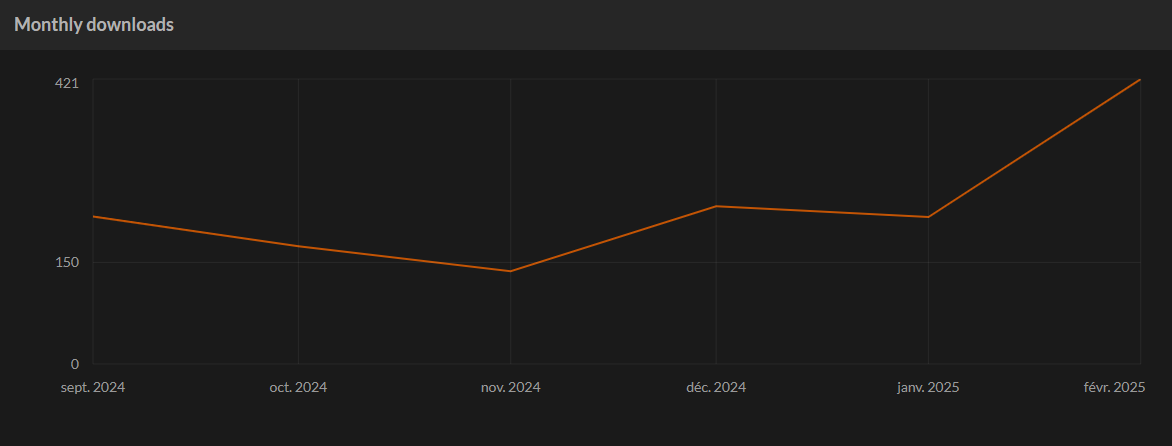
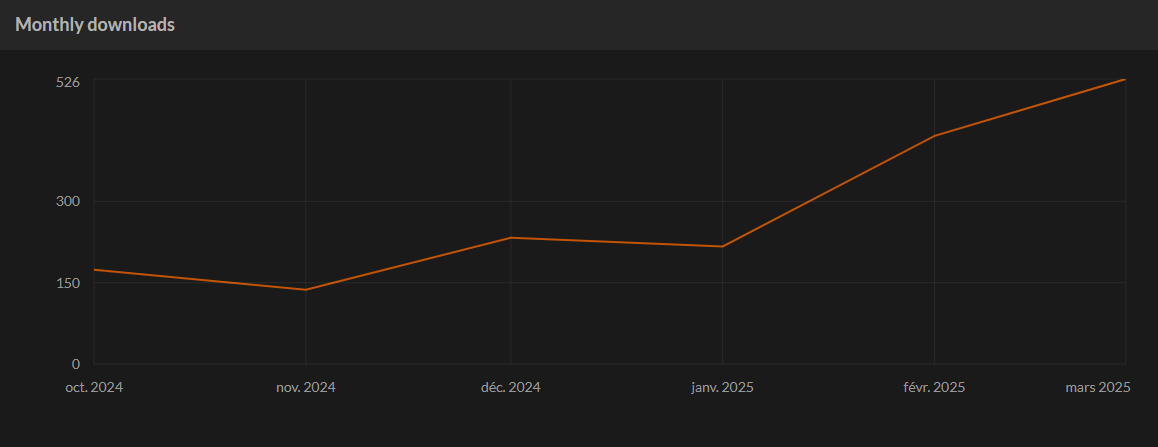
styles remaking and search fundation

diff --git a/general.css b/general.css
@@ -1,13 +1,102 @@
-nav a{margin: 6%; padding: 4px; font-size: 25px; color: rgb(220, 225, 245); 
-    border: solid black 3px; border-radius: 4px; text-decoration: none; font-weight: bold;}
-nav{text-align: center; background-image: linear-gradient(blue, darkblue); 
-    width: 93%; height: 60px; margin: 0%; left: 7%; top: 0%; position: fixed;
-    border: solid darkblue 10px; border-radius: 8px; z-index: 5;}
-nav a:hover{padding: 6px;}
+nav a {
+    font-size: 50px;
+    color: rgb(220, 225, 245);
+    text-transform: uppercase; /* Ensures text is in capital letters */
+    text-decoration: none;
+    font-weight: bold;
+    margin-top: auto;
+    display: inline-block;
+    position: relative;
+    margin-right: 5%;
+    transition-duration: 0.1s;
+}
+nav a:hover {
+    font-size: 60px;
+    transition-duration: 0.2s;
+}
+
+nav {
+    text-align: center;
+    background-image: linear-gradient(blue, darkblue);
+    width: 100%;
+    height: 80px;
+    top: 0%;
+    left: 0%;
+    position: fixed;
+    z-index: 5;
+}
+
+#logo {
+    position: fixed;
+    width: 5%;
+    height: auto;
+    z-index: 7;
+    margin-top: auto;
+}
+@media screen and (max-width: 865px) {
+    nav a {
+        display: block; /* Ensures links are stacked vertically */
+        margin: 10px auto; /* Centers the links and adds spacing */
+        padding: 4px;
+        font-size: 25px;
+        color: rgb(220, 225, 245);
+        border: solid black 3px;
+        border-radius: 4px;
+        text-decoration: none;
+        font-weight: bold;
+    }
+    nav {
+        text-align: center;
+        background-image: linear-gradient(blue, darkblue);
+        width: 100%;
+        height: auto; /* Adjust height to fit content */
+        margin: 0%;
+        left: 0; /* Align nav to the left */
+        top: 0%;
+        position: absolute;
+        border: solid darkblue 10px;
+        border-radius: 4px;
+        padding-bottom: 20px; /* Adds space at the bottom */
+        z-index: 20;
+   }
+   nav a:hover {
+    font-size: 40px;
+    }
+    body > *:not(nav):not(nav *) {
+        position: relative;
+        top: 300px;
+    }
+    button{top: 330px; right: 50%;}
+    div#results {
+        position: relative; /* Change to relative to align it naturally in the flow */
+        top: 0; /* Remove the absolute positioning offset */
+        margin-top: 250px; /* Add spacing below the input and button */
+        width: 80%;
+    }
+    #logo {visibility: hidden;}
+    }
+
 
 h1{text-align: center; color: #040; font-size: 40px; margin-top: 0%; position: relative; top: 70px;}
-#logo{position: fixed; width: 5%; height: 10%;}
-img{width: 80%; height: auto; margin: auto;}
 .par{font-size: 20px; font-weight: 500; font-family: Verdana, sans-serif;}
 p.par{margin-top: 10%;}
 body{background-color: rgb(164, 209, 247);}
+
+/*Search page styles*/
+input{width: 80%; height: 8%; position: absolute; top: 20%; 
+    -webkit-box-align: center; font-size: 3em; border-color: blue;}
+button{width: 10; height: 8%; position: absolute; top: 20%; left: 85%; font-size: 3em;
+    border-color: blue; border-radius: 12px; transition-duration: 0.4s;}
+button:hover{background-color: blue; color: white;}
+div#results{position: absolute; top: 30%; width: 80%;}
+div#results a{
+    display: block;
+    width: 100%;
+    font-size: 35px;
+    text-decoration: none;
+    color: black;
+    margin: 2%;
+    padding: 5px;
+    text-align: center;
+    border: 5px solid black;
+}

diff --git a/ore_pack/wikistyle.css b/ore_pack/wikistyle.css
@@ -1,18 +1,94 @@
 /*Box on side styles*/
-.menu{border: 3px dashed turquoise; width: 17%; 
+.menu{border: 3px dashed turquoise; width: 17%; height: 100%;
     background-image: linear-gradient(to left, blue, darkblue); padding-left: 3%; padding-top: 2%; 
-    padding-bottom: 2%; float: left; position: fixed; top: 20%;}
+    padding-bottom: 2%; float: left; position: fixed; top: 20%; margin-top: 0%;}
 .menu a{font-size: 20px; text-align: left; color: black; text-decoration: none; padding: 1px;
     text-decoration: none; font-weight: bold;}
 .menu li:hover{list-style-image: url(favicon.ico);}
 
 /*Box on top styles*/
-nav a{margin: 6%; padding: 4px; font-size: 25px; color: rgb(220, 225, 245); 
-    border: solid black 3px; border-radius: 4px; text-decoration: none; font-weight: bold;}
-nav{text-align: center; background-image: linear-gradient(blue, darkblue); 
-    width: 93%; height: 60px; margin: 0%; left: 7%; top: 0%; position: fixed;
-    border: solid darkblue 10px; border-radius: 8px;}
-nav a:hover{padding: 6px;}
+nav a {
+    font-size: 50px;
+    color: rgb(220, 225, 245);
+    text-transform: uppercase; /* Ensures text is in capital letters */
+    text-decoration: none;
+    font-weight: bold;
+    margin-top: auto;
+    display: inline-block;
+    position: relative;
+    margin-right: 5%;
+    transition-duration: 0.1s;
+}
+nav a:hover {
+    font-size: 60px;
+    transition-duration: 0.2s;
+}
+
+nav {
+    text-align: center;
+    background-image: linear-gradient(blue, darkblue);
+    width: 100%;
+    height: 80px;
+    top: 0%;
+    left: 0%;
+    position: fixed;
+    z-index: 5;
+}
+
+/*For smaller screen*/
+@media screen and (max-width: 865px) {
+    nav a {
+        display: block; /* Ensures links are stacked vertically */
+        margin: 10px auto; /* Centers the links and adds spacing */
+        padding: 4px;
+        font-size: 25px;
+        color: rgb(220, 225, 245);
+        border: solid black 3px;
+        border-radius: 4px;
+        text-decoration: none;
+        font-weight: bold;
+    }
+    nav {
+        text-align: center;
+        background-image: linear-gradient(blue, darkblue);
+        width: 100%;
+        height: auto; /* Adjust height to fit content */
+        margin: 0%;
+        left: 0; /* Align nav to the left */
+        top: 0%;
+        position: absolute;
+        border: solid darkblue 10px;
+        border-radius: 4px;
+        padding-bottom: 20px; /* Adds space at the bottom */
+        z-index: 20;
+    }
+    nav a:hover {
+        font-size: 40px;
+    }
+    body > *:not(nav):not(nav *) {
+        position: relative;
+        top: 300px;
+    }
+    .menu {
+        border: 3px dashed turquoise;
+        width: 17%;
+        height: 100%;
+        background-image: linear-gradient(to left, blue, darkblue);
+        padding-left: 3%;
+        padding-top: 2%;
+        padding-bottom: 2%;
+        float: left;
+        position: fixed;
+        top: 20%;
+        margin-top: 0%;
+        visibility: hidden; /* Initially hidden */
+    }
+    
+    .menu a{font-size: 20px; text-align: left; color: black; text-decoration: none; padding: 1px;
+        text-decoration: none; font-weight: bold;}
+    .menu li{list-style-type: none;}
+}
+
 
 /*General styles*/
 li{list-style-type: square;}

diff --git a/renewed_this/wikistyle.css b/renewed_this/wikistyle.css
@@ -1,18 +1,94 @@
 /*Box on side styles*/
-.menu{border: 3px dashed turquoise; width: 17%; 
+.menu{border: 3px dashed turquoise; width: 17%; height: 100%;
     background-image: linear-gradient(to left, blue, darkblue); padding-left: 3%; padding-top: 2%; 
-    padding-bottom: 2%; float: left; position: fixed; top: 20%;}
+    padding-bottom: 2%; float: left; position: fixed; top: 20%; margin-top: 0%;}
 .menu a{font-size: 20px; text-align: left; color: black; text-decoration: none; padding: 1px;
     text-decoration: none; font-weight: bold;}
 .menu li:hover{list-style-image: url(favicon.ico);}
 
 /*Box on top styles*/
-nav a{margin: 6%; padding: 4px; font-size: 25px; color: rgb(220, 225, 245); 
-    border: solid black 3px; border-radius: 4px; text-decoration: none; font-weight: bold;}
-nav{text-align: center; background-image: linear-gradient(blue, darkblue); 
-    width: 93%; height: 60px; margin: 0%; left: 7%; top: 0%; position: fixed;
-    border: solid darkblue 10px; border-radius: 8px;}
-nav a:hover{padding: 6px;}
+nav a {
+    font-size: 50px;
+    color: rgb(220, 225, 245);
+    text-transform: uppercase; /* Ensures text is in capital letters */
+    text-decoration: none;
+    font-weight: bold;
+    margin-top: auto;
+    display: inline-block;
+    position: relative;
+    margin-right: 5%;
+    transition-duration: 0.1s;
+}
+nav a:hover {
+    font-size: 60px;
+    transition-duration: 0.2s;
+}
+
+nav {
+    text-align: center;
+    background-image: linear-gradient(blue, darkblue);
+    width: 100%;
+    height: 80px;
+    top: 0%;
+    left: 0%;
+    position: fixed;
+    z-index: 5;
+}
+
+
+/*For smaller screen*/
+@media screen and (max-width: 865px) {
+    nav a {
+        display: block; /* Ensures links are stacked vertically */
+        margin: 10px auto; /* Centers the links and adds spacing */
+        padding: 4px;
+        font-size: 25px;
+        color: rgb(220, 225, 245);
+        border: solid black 3px;
+        border-radius: 4px;
+        text-decoration: none;
+        font-weight: bold;
+    }
+    nav {
+        text-align: center;
+        background-image: linear-gradient(blue, darkblue);
+        width: 100%;
+        height: auto; /* Adjust height to fit content */
+        margin: 0%;
+        left: 0; /* Align nav to the left */
+        top: 0%;
+        position: absolute;
+        border: solid darkblue 10px;
+        border-radius: 4px;
+        padding-bottom: 20px; /* Adds space at the bottom */
+        z-index: 20;
+    }
+    nav a:hover {
+        font-size: 40px;
+    }
+    body > *:not(nav):not(nav *) {
+        position: relative;
+        top: 300px;
+    }
+    .menu {
+        border: 3px dashed turquoise;
+        width: 17%;
+        height: 100%;
+        background-image: linear-gradient(to left, blue, darkblue);
+        padding-left: 3%;
+        padding-top: 2%;
+        padding-bottom: 2%;
+        float: left;
+        position: fixed;
+        top: 20%;
+        margin-top: 0%;
+        visibility: hidden; /* Initially hidden */
+    }
+    
+    .menu a{font-size: 20px; text-align: left; color: black; text-decoration: none; padding: 1px;
+        text-decoration: none; font-weight: bold;}
+    .menu li{list-style-type: none;}
+}
 
 /*General styles*/
 li{list-style-type: square;}

diff --git a/search.html b/search.html
@@ -1,0 +1,66 @@
+<!DOCTYPE html>
+<html lang="en">
+<head>
+    <meta charset="UTF-8">
+    <title>Search | CCCStudio website</title>
+    <link rel="stylesheet" href="general.css">
+</head>
+<body>
+    <img src="favicon.ico" id="logo"/>
+    <nav><ol>
+        <a href="projects.html">Projects</a>
+        <a href="stats.html">Statistics</a>
+        <a href="about.html">About</a>
+        <a href="sustain.html">Sustain</a>
+    </ol></nav>
+    <h1>Search</h1>
+    <input type="text" id="search" placeholder="Search..."  autofocus="autofocus">
+    <button id="searchButton" onclick="search()">Search</button>
+    <script>
+        function search() {
+            const oldResults = document.getElementById('results');
+            if (oldResults) {
+            oldResults.remove();
+            }
+            const query = document.getElementById('search').value.toLowerCase();
+            const pages = [
+                { title: 'advancements', url: 'ore_pack/advancements.html' },
+                { title: 'bronze', url: 'ore_pack/bronze.html' },
+                { title: 'ore pack', url: 'ore_pack/index.html' },
+                { title: 'manganese', url: 'ore_pack/manganese.html' },
+                { title: 'new tools', url: 'ore_pack/new_tools.html' },
+                { title: 'nickel', url: 'ore_pack/nickel.html' },
+                { title: 'ore pack recipes', url: 'ore_pack/recipes.html' },
+                { title: 'silver clock', url: 'ore_pack/silver_clock.html' },
+                { title: 'silver', url: 'ore_pack/silver.html' },
+                { title: 'titanium', url: 'ore_pack/titanium.html' },
+                { title: 'ore pack trades', url: 'ore_pack/trades.html' },
+            ];
+            const results = [];
+            if (query) {
+                pages.forEach(page => {
+                    if (page.title.toLowerCase().includes(query)) {
+                        results.push(page);
+                    }
+                });
+                if (results.length > 0) {
+                    const resultsContainer = document.createElement('div');
+                    resultsContainer.id = 'results';
+                    results.forEach(result => {
+                        const link = document.createElement('a');
+                        link.href = result.url;
+                        link.textContent = result.title.toUpperCase();
+                        link.style.display = 'block';
+                        resultsContainer.appendChild(link);
+                    });
+                    document.body.appendChild(resultsContainer);
+                    alert('Search results found!');
+                } else {
+                    alert('No results found.');
+                }
+            } else {
+                alert('Please enter a search term.');
+            }
+        }
+    </script>
+</body>

diff --git a/stats.html b/stats.html
@@ -7,7 +7,7 @@
         <link rel="stylesheet" href="general.css">
         <style>
             #centerimg{margin-left: 20%; margin-top: 10%;}
-            #centerimg img{margin-bottom: 5%;}
+            #centerimg img{margin-bottom: 5%; width: 70%; height: auto;}
         </style>
     </head>
     <body>
